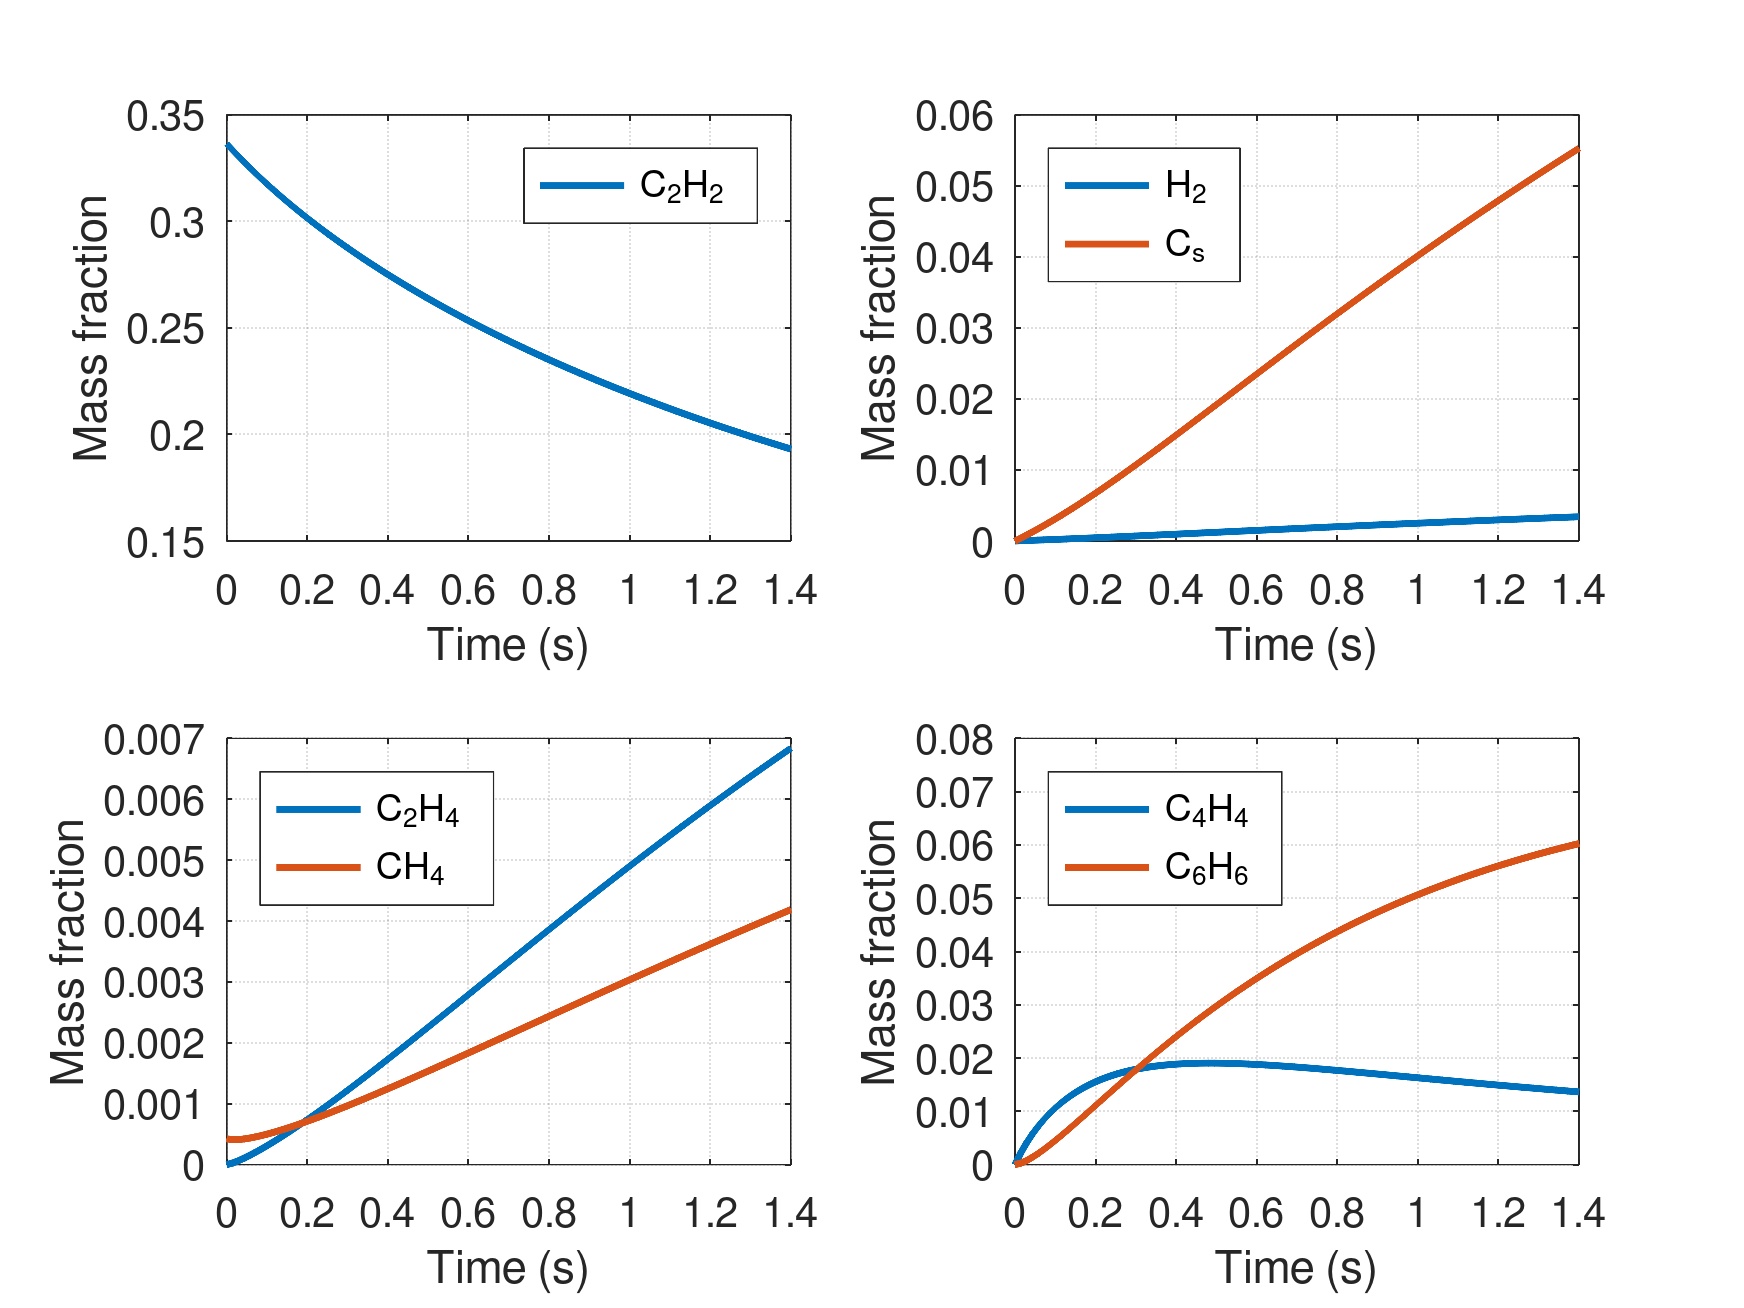
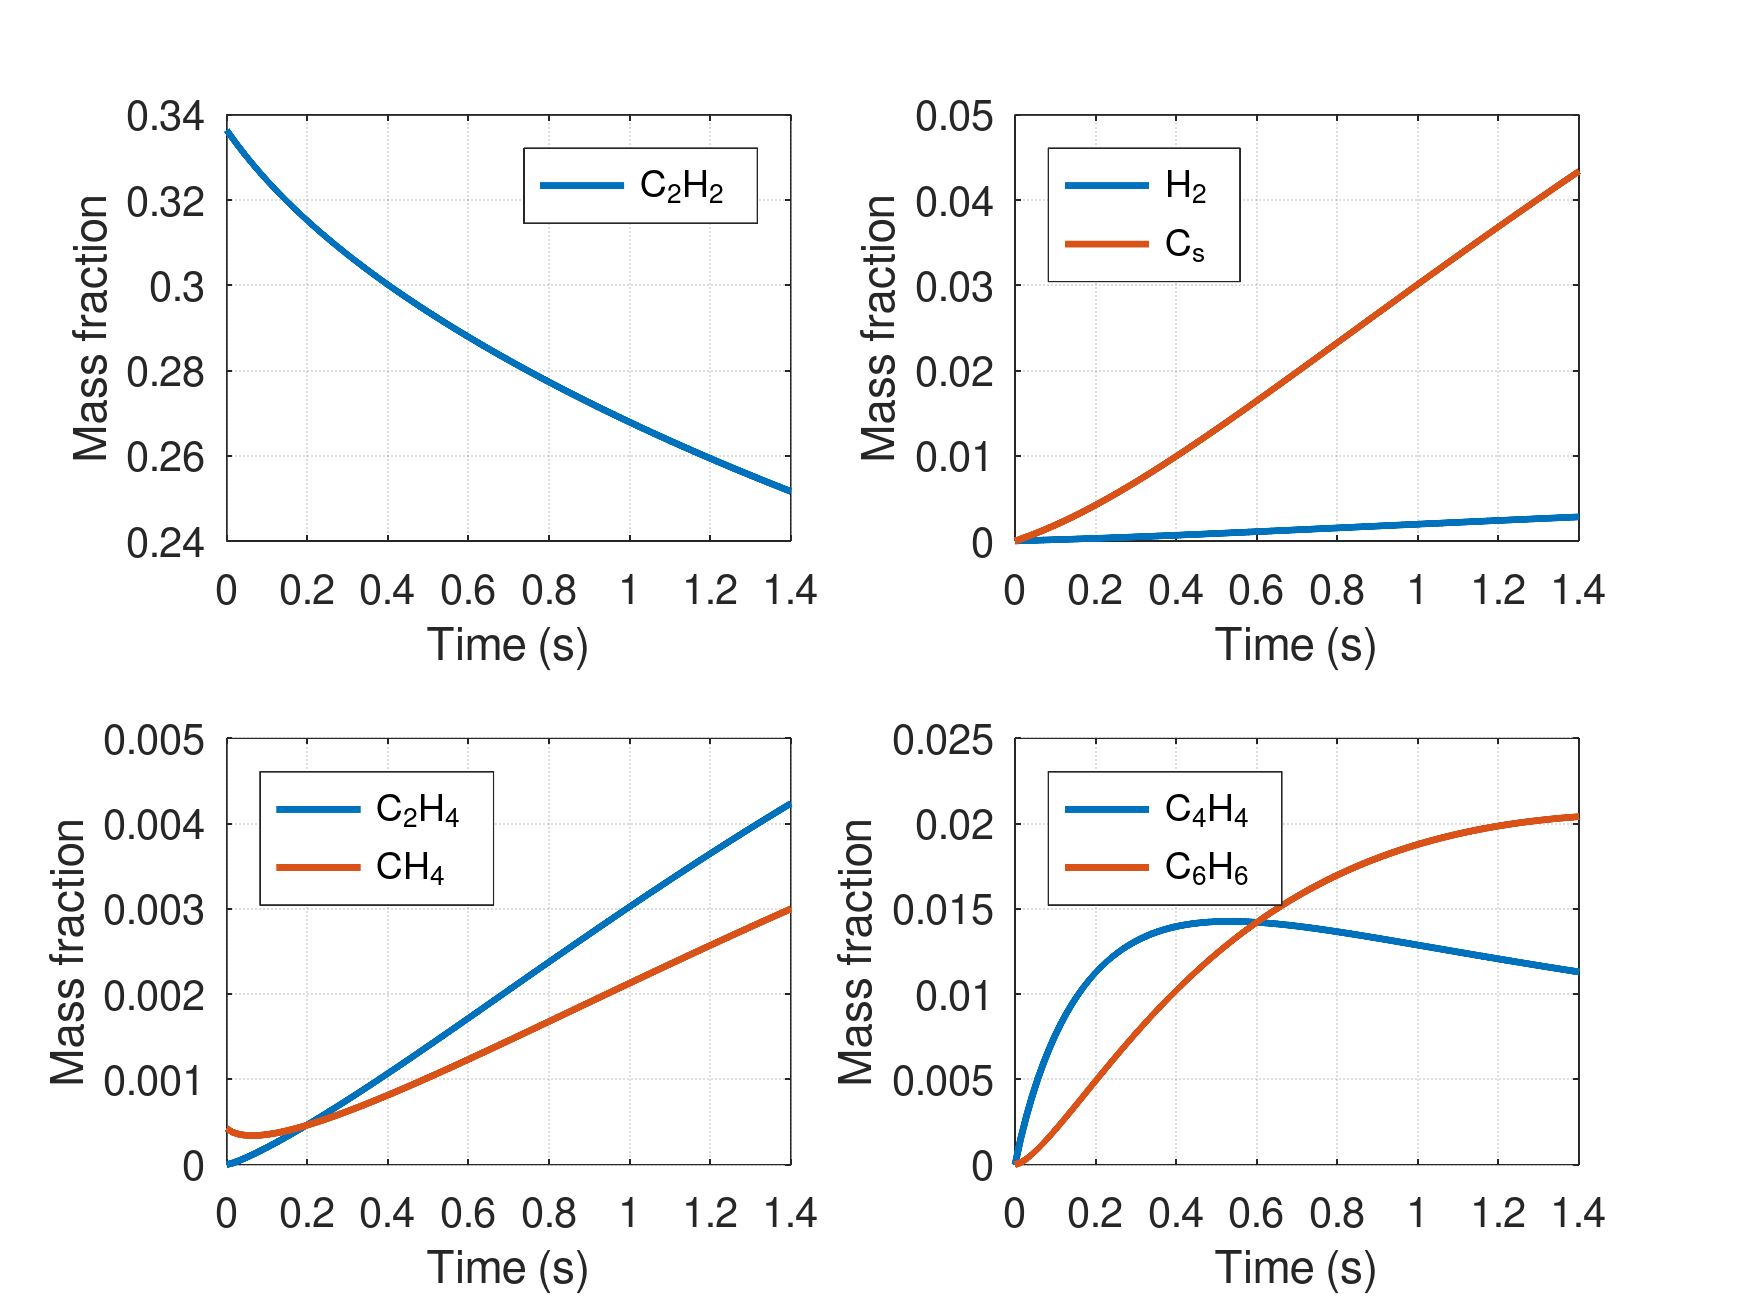
Debug mechanism

diff --git a/projects/acetylene-pyrolysis/notebooks/graf/graf_simulation.py b/projects/acetylene-pyrolysis/notebooks/graf/graf_simulation.py
@@ -1,0 +1,92 @@
+# -*- coding: utf-8 -*-
+import cantera as ct
+import numpy as np
+import matplotlib.pyplot as plt
+
+
+class GrafSimulation:
+    """ Simulate single reactor with Graf's mechanism. """
+    def __init__(self, *, T, P, f, verbose=True):
+        gas = ct.Solution("graf.yaml")
+        gas.TPX = T, P, self._acetylene_mixture(f)
+
+        reactor = ct.IdealGasConstPressureReactor(gas)
+        reactor.energy_enabled = False
+
+        simulation = ct.ReactorNet([reactor])
+        simulation.verbose = verbose
+
+        states = ct.SolutionArray(gas, extra=["t"])
+
+        self._reactor = reactor
+        self._simulation = simulation
+        self._states = states
+
+        self._feed_state()
+
+    def _acetylene_mixture(self, f):
+        """ Simulate single reactor with Graf's mechanism. """
+        X = {"C2H2": 0.98 * f, "CH4": 0.002 * f}
+        X["N2"] = 1.0 - sum(X.values())
+        return X
+
+    def _feed_state(self):
+        """ Feed solution state to solution array. """
+        state = self._reactor.thermo.state
+        self._states.append(state, t=self._simulation.time)
+
+    def run(self, *, tout, nsteps, ttol=1.0e-07):
+        """ Simulate system until `tout` seconds in `nsteps` steps. """
+        times = np.linspace(0, tout, nsteps)
+
+        for tend in times[1:]:
+            if self._simulation.time > tend:
+                raise RuntimeError("Simulation time greater than exit time...")
+
+            self._simulation.advance(tend)
+            self._feed_state()
+
+            if abs(tend - self._simulation.time) > ttol:
+                raise RuntimeError("Unable to reach exit time during advance...")
+
+        return self._states
+
+    def plot(self):
+        """ Displays model solution over time. """
+        # Same indexing as Octave
+        t  = self._states.t
+        y1 = self._states.C2H2
+        y2 = self._states.H2
+        y3 = self._states.C2H4
+        y4 = self._states.CH4
+        y5 = self._states.C4H4
+        y6 = self._states.C6H6
+        y7 = self._states.C
+
+        plt.close("all")
+        fig, ax = plt.subplots(2, 2, figsize=(10, 8))
+        ax = np.ravel(ax)
+
+        def set_subplot(ax, ymin=0.0):
+            ax.grid(linestyle=":")
+            ax.set_xlabel("Time (s)")
+            ax.set_ylabel("Mass fraction")
+            ax.legend(loc="best")
+            ax.set_xlim(0, t[-1])
+            ax.set_ylim(ymin, None)
+
+        ax[0].plot(t, y1, c="b", label="$C_2H_2$")
+        ax[1].plot(t, y2, c="b", label="$H_2$")
+        ax[1].plot(t, y7, c="r", label="$C_s$")
+        ax[2].plot(t, y3, c="b", label="$C_2H_4$")
+        ax[2].plot(t, y4, c="r", label="$CH_4$")
+        ax[3].plot(t, y5, c="b", label="$C_4H_4$")
+        ax[3].plot(t, y6, c="r", label="$C_6H_6$")
+
+        set_subplot(ax[0], ymin=0.24)
+        set_subplot(ax[1])
+        set_subplot(ax[2])
+        set_subplot(ax[3])
+
+        fig.tight_layout()
+        return fig, ax

diff --git a/projects/acetylene-pyrolysis/notebooks/graf/graf_kinetics.m b/projects/acetylene-pyrolysis/notebooks/graf/graf_kinetics.m
@@ -1,26 +1,7 @@
-function Ydot = graf_kinetics(Y, t, P, RT)
+function Ydot = graf_kinetics(Y, t, T, P)
     % Compute mass fraction rates of production species.
     % Molar masses C2H2, H2, C2H4, CH4, C4H4, C6H6, Cs, N2.
-    W = [26; 2; 28; 16; 52; 78; 12; 28] ./ 1000;
-
-    % Compute gas density.
-    rho = (P / RT) * sum(1.0 / (Y ./ W));
-
-    % Convert mass fractions to concentrations.
-    X = rho * Y ./ W;
-
-    % Reaction rates in molar units.
-    rates = [
-        4.4e+03 * exp(-1.0300e+05 / RT) * X(1) * X(2)^0.36;
-        3.8e+07 * exp(-2.0000e+05 / RT) * X(3)^0.50;
-        1.4e+05 * exp(-1.5000e+05 / RT) * X(1)^0.35 * X(2)^0.22;
-        8.6e+06 * exp(-1.9500e+05 / RT) * X(4)^0.21;
-        1.2e+05 * exp(-1.2070e+05 / RT) * X(1)^1.60;
-        1.0e+15 * exp(-3.3520e+05 / RT) * X(5)^0.75;
-        1.8e+03 * exp(-6.4500e+04 / RT) * X(1)^1.30 * X(5)^0.60;
-        5.5e+06 * exp(-1.6500e+05 / RT) * X(1)^1.90 / (1.0 + 18.0 * X(2));
-        1.0e+03 * exp(-7.5000e+04 / RT) * X(6)^0.75 / (1.0 + 22.0 * X(2));
-    ];
+    W = [26; 2; 28; 16; 52; 78; 12; 28];
 
     % Matrix of stoichiometric coefficients for the reactions above.
     nu = [
@@ -34,11 +15,30 @@ function Ydot = graf_kinetics(Y, t, P, RT)
         +0, +0, +0, +0, +0, +0, +0, +0, +0; % 8 N2
     ];
 
-    % Get rate in mass fraction units.
-    Wdot = (nu * rates) .* W ./ rho;
+    % Compute gas density.
+    rho = 1000.0 * ideal_gas_density(T, P, Y, W);
 
-    % Concatenate arrays for balance over porter N2.
-    %Ydot = cat(1, Wdot(1:7), 1.0 - sum(Wdot(1:7)));
+    % Convert mass fractions to concentrations.
+    X = ideal_gas_concentration(rho, Y, W);
+
+    % Reaction rates in molar units.
+    rates = [
+        arrhenius_rate(T, 4.4e+03, 1.030e+05) * X(1) * X(2)^0.36;
+        arrhenius_rate(T, 3.8e+07, 2.000e+05) * X(3)^0.50;
+        arrhenius_rate(T, 1.4e+05, 1.500e+05) * X(1)^0.35 * X(2)^0.22;
+        arrhenius_rate(T, 8.6e+06, 1.950e+05) * X(4)^0.21;
+        arrhenius_rate(T, 1.2e+05, 1.207e+05) * X(1)^1.60;
+        arrhenius_rate(T, 1.0e+15, 3.352e+05) * X(5)^0.75;
+        arrhenius_rate(T, 1.8e+03, 6.450e+04) * X(1)^1.30 * X(5)^0.60;
+        arrhenius_rate(T, 5.5e+06, 1.650e+05) * X(1)^1.90 / (1.0 + 18.0 * X(2));
+        arrhenius_rate(T, 1.0e+03, 7.500e+04) * X(6)^0.75 / (1.0 + 22.0 * X(2));
+    ];
+
+    % Rate of molar production of species.
+    omega = nu * rates;
+
+    % Get rate in mass fraction units.
+    Wdot = omega .* W / rho;
 
     % Solving all species at once.
     Ydot = Wdot;

diff --git a/projects/acetylene-pyrolysis/notebooks/graf/graf_integrate.m b/projects/acetylene-pyrolysis/notebooks/graf/graf_integrate.m
@@ -1,9 +1,8 @@
 function [h, sol] = graf_integrate(T, P, Y, tout, nsteps, saveas)
     % Integrate kinetics over time and display results.
-    R = 8.314472;              % Gas constant (J/mol/K)
 
     % Create anonymous function.
-    f =  @(Y, t) graf_kinetics(Y, t, P, R * T);
+    f =  @(Y, t) graf_kinetics(Y, t, T, P);
 
     t = linspace(0, tout, nsteps);
     lsode_options('integration method', 'stiff');

diff --git a/projects/acetylene-pyrolysis/notebooks/graf/ideal_gas_density.m b/projects/acetylene-pyrolysis/notebooks/graf/ideal_gas_density.m
@@ -1,0 +1,4 @@
+function rho = ideal_gas_density(T, P, Y, W)
+    M = mean_molecular_mass(Y, W);
+    rho = (P * M) / (8314.46261815324 * T);
+end

diff --git a/projects/acetylene-pyrolysis/notebooks/graf/arrhenius_rate.m b/projects/acetylene-pyrolysis/notebooks/graf/arrhenius_rate.m
@@ -1,0 +1,3 @@
+function k = arrhenius_rate(T, A, Ea)
+    k = A * exp(-Ea / (8.31446261815324 * T));
+end

diff --git a/projects/acetylene-pyrolysis/notebooks/graf/ideal_gas_concentration.m b/projects/acetylene-pyrolysis/notebooks/graf/ideal_gas_concentration.m
@@ -1,0 +1,3 @@
+function C = ideal_gas_concentration(rho, Y, W)
+    C = rho * Y ./ W;
+end

diff --git a/projects/acetylene-pyrolysis/notebooks/graf/mean_molecular_mass.m b/projects/acetylene-pyrolysis/notebooks/graf/mean_molecular_mass.m
@@ -1,0 +1,3 @@
+function M = mean_molecular_mass(Y, W)
+    M = 1.0 / sum(Y ./ W);
+end

diff --git a/projects/acetylene-pyrolysis/notebooks/graf/README.md b/projects/acetylene-pyrolysis/notebooks/graf/README.md
@@ -77,116 +77,15 @@ Generally, when dealing with chemical species, one writes the equations in terms
 - [Arbitrary reaction orders](https://cantera.org/stable/reference/kinetics/reaction-rates.html#reaction-orders)
 
 ```python
-import cantera as ct
-import numpy as np
-import matplotlib.pyplot as plt
+%matplotlib agg
+from graf_simulation import GrafSimulation
 ```
 
 ```python
-class GrafSimulation:
-    """ Simulate single reactor with Graf's mechanism. """
-    def __init__(self, T, P, f, verbose=True):
-        gas = ct.Solution("graf.yaml")
-        gas.TPX = T, P, self._acetylene_mixture(f)
-        
-        reactor = ct.IdealGasConstPressureReactor(gas)
-        reactor.energy_enabled = False
-        
-        simulation = ct.ReactorNet([reactor])
-        simulation.verbose = verbose
-    
-        states = ct.SolutionArray(gas, extra=["t"])
-        
-        self._reactor = reactor
-        self._simulation = simulation
-        self._states = states
+simulation = GrafSimulation(T = 1173.0, P = 5000.0, f = 0.36, verbose=False)
+states = simulation.run(tout = 1.4, nsteps = 100)
 
-        self._feed_state()
-
-    def _acetylene_mixture(self, f):
-        """ Simulate single reactor with Graf's mechanism. """
-        X = {"C2H2": 0.98 * f, "CH4": 0.002 * f}
-        X["N2"] = 1.0 - sum(X.values())
-        return X
-
-    def _feed_state(self):
-        """ Feed solution state to solution array. """
-        state = self._reactor.thermo.state
-        self._states.append(state, t=self._simulation.time)
-
-    def run(self, tout, nsteps, ttol=1.0e-07):
-        """ Simulate system until `tout` seconds in `nsteps` steps. """
-        times = np.linspace(0, tout, nsteps)
-
-        for tend in times[1:]:
-            if self._simulation.time > tend:
-                raise RuntimeError("Simulation time greater than exit time...")
-                
-            self._simulation.advance(tend)
-            self._feed_state()
-                
-            if abs(tend - self._simulation.time) > ttol:
-                raise RuntimeError("Unable to reach exit time during advance...")
-
-        return self._states
-```
-
-```python
-def plot_simulation(states):
-    """ Displays model solution over time. """
-    # Same indexing as Octave
-    t = states.t
-    y1 = states.C2H2
-    y2 = states.H2
-    y3 = states.C2H4
-    y4 = states.CH4
-    y5 = states.C4H4
-    y6 = states.C6H6
-    y7 = states.C
-
-    plt.close("all")
-    plt.ioff()
-
-    fig, ax = plt.subplots(2, 2, figsize=(10, 8))
-    ax = np.ravel(ax)
-    
-    def set_subplot(ax, ymin=0.0):
-        ax.grid(linestyle=":")
-        ax.set_xlabel("Time (s)")
-        ax.set_ylabel("Mass fraction")
-        ax.legend(loc="best")
-        ax.set_xlim(0, t[-1])
-        ax.set_ylim(ymin, None)
-    
-    ax[0].plot(t, y1, c="b", label="$C_2H_2$")
-    ax[1].plot(t, y2, c="b", label="$H_2$")
-    ax[1].plot(t, y7, c="r", label="$C_s$")
-    ax[2].plot(t, y3, c="b", label="$C_2H_4$")
-    ax[2].plot(t, y4, c="r", label="$CH_4$")
-    ax[3].plot(t, y5, c="b", label="$C_4H_4$")
-    ax[3].plot(t, y6, c="r", label="$C_6H_6$")
-    
-    set_subplot(ax[0], ymin=0.24)
-    set_subplot(ax[1])
-    set_subplot(ax[2])
-    set_subplot(ax[3])
-    
-    fig.tight_layout()
-    return fig, ax
-```
-
-```python
-tout = 1.4
-nsteps = 100
-
-T = 1173.0
-P = 5000.0
-f = 0.36
-
-simulation = GrafSimulation(T, P, f, verbose=False)
-states = simulation.run(tout, nsteps)
-
-fig, ax = plot_simulation(states)
+fig, ax = simulation.plot()
 fig.savefig("graf_plot_cantera.png", dpi=300)
 ```
 
